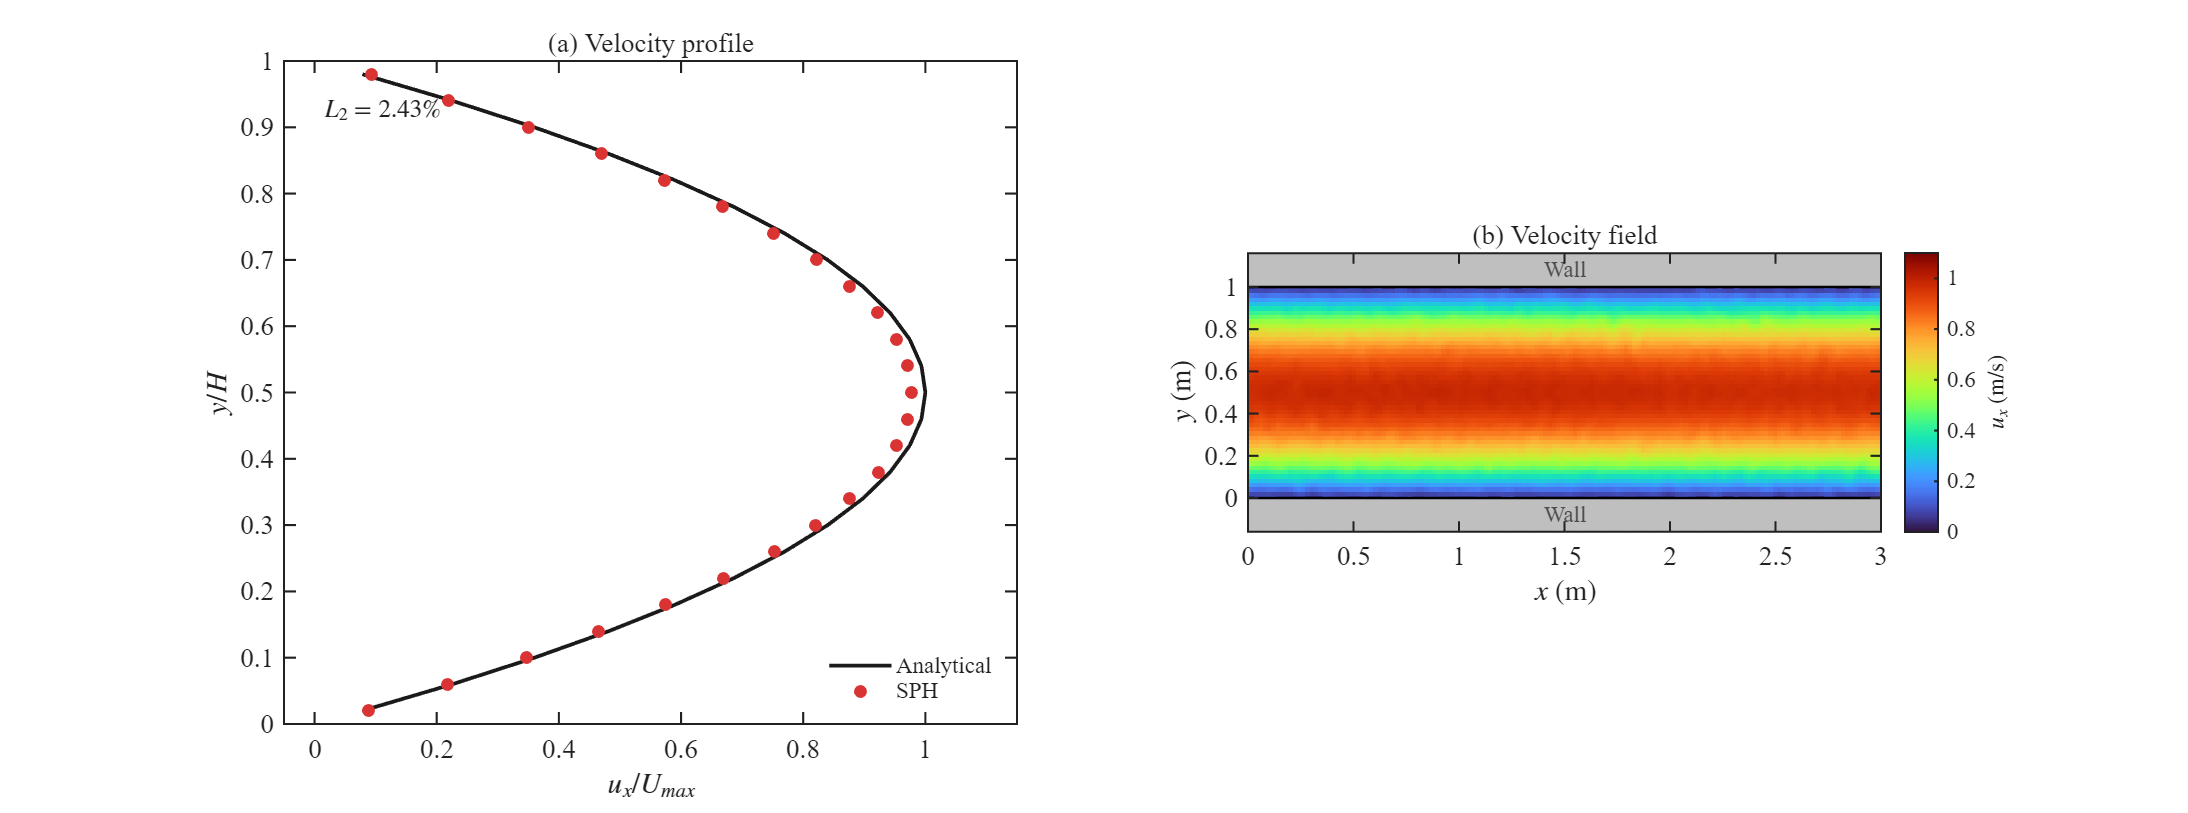
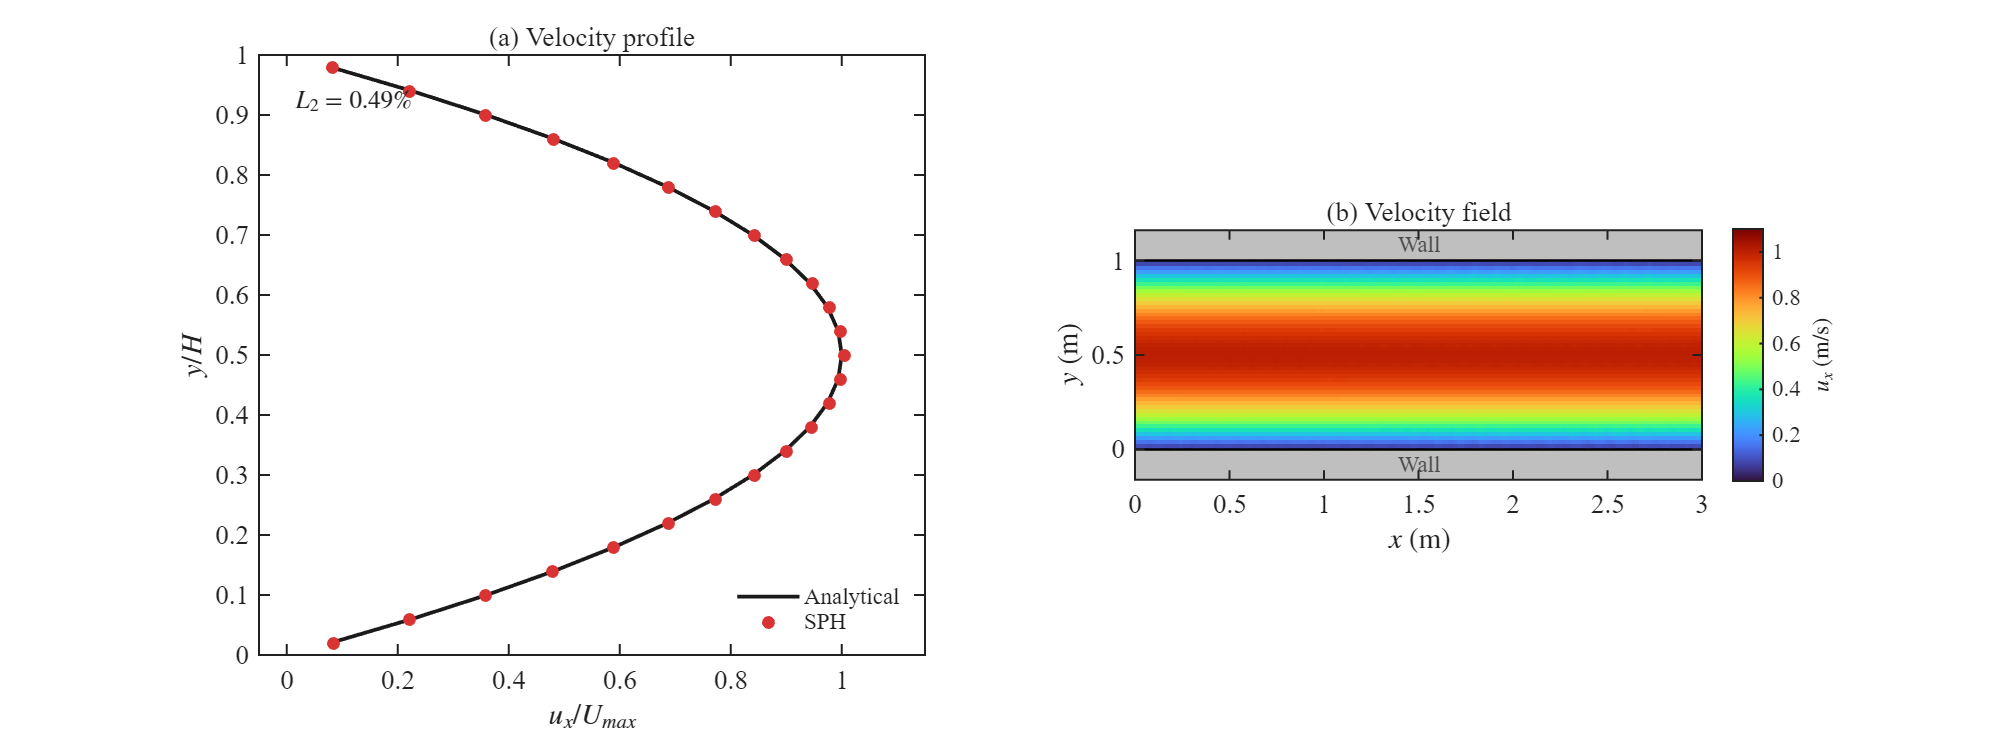
fix(poiseuille): 修复周期边界接缝漏邻居并收敛边界剖面
变更内容：
- 在 `sph_neighbor_search_mex` 中引入 `CellEntryBuffer`，为靠近 `x` 周期边界的粒子插入平移 ghost cell entry，而不是仅依赖 wrapped cell + minimum-image。
- 对 ghost/real entry 增加 `seen_neighbor` 去重，避免跨周期近邻重复计数。
- 更新默认结果图，反映修复后 20s 周期接缝两侧剖面更连续。
- 将 `tests/test_sph_physics_modes.m` 从 Git 索引移除，继续保留本地忽略策略与工作副本。

已定位的关键问题（BUG）：
- 旧实现虽然对 `dx` 做了 minimum-image 修正，但搜索阶段仍只检查 wrapped 后所在 cell 的 3x3 邻域；当粒子贴近两端边界时，会漏掉实际距离仍在 `2h` 内的跨周期近邻。
- 漏邻居会直接传导到 `integration_2nd` 的密度散度项，造成周期接缝两侧 `u_x` 剖面不连续，并放大长时层状轻微起伏。
- `tests/` 已被 `.gitignore` 忽略，但历史上已跟踪的 `test_sph_physics_modes.m` 仍会持续出现在变更中，因此本次同步从索引移除。

验证结果：
- `matlab -batch "run('tests/test_sph_physics_modes.m')"`: PASS
- `matlab -batch "run('tests/test_poiseuille_uniformity_regression.m')"`: PASS
- `matlab -batch "run('tests/test_poiseuille_longtime_order_regression.m')"`: PASS
- `gitnexus_detect_changes(scope=all)`: `risk_level = low`
- 20s 周期接缝指标按流体粒子口径从 `edge ux gap = 0.0587` / `edge profile L2 = 0.0250` 改善到 `0.0232` / `0.00514`
- 最新 20s 全长算例 `L2 = 0.49%`

风险与影响：
- 本次改动只触及周期邻居构造，不改变主推进骨架、`transport_coeff` 或壁面算子公式。
- 邻居搜索现在会在边界附近持有额外 ghost entry；后续如果继续扩展到显式周期 linked-list 统计或并行化，需要留意 entry 容量与重复计数策略。
- 提交后仓库中的 `tests/test_sph_physics_modes.m` 会被删除，但本地文件仍保留并受 `.gitignore` 忽略。

下一步修复计划：
1. 继续观察 20s 后周期接缝附近残余层状起伏，判断是否还需要把同类接缝指标纳入仓库内正式测试门禁。
2. 如果后续切换 second-half 到带 Riemann 耗散的实现，再单独复核 `integration_2nd` 的 `p_dissipation` 路径，而不是在当前 no-Riemann 版本上混改公式。
3. 视需要将周期接缝前后对比补进文档或图表，作为后续归档材料。

diff --git a/mex/sph_neighbor_search_mex.c b/mex/sph_neighbor_search_mex.c
@@ -40,6 +40,71 @@ typedef struct {
     mwSize capacity;
 } PairBuffer;
 
+typedef struct {
+    int *head;
+    int *next;
+    int *particle;
+    double *x;
+    double *y;
+    mwSize count;
+    mwSize capacity;
+} CellEntryBuffer;
+
+static int wrap_cell_index(int cell_index, int n_cell_x)
+{
+    if (n_cell_x <= 0) {
+        return 0;
+    }
+    cell_index %= n_cell_x;
+    if (cell_index < 0) {
+        cell_index += n_cell_x;
+    }
+    return cell_index;
+}
+
+static void init_cell_entry_buffer(CellEntryBuffer *buf, int n_cells, mwSize capacity)
+{
+    int i;
+    buf->count = 0;
+    buf->capacity = capacity;
+    buf->head = (int *)mxMalloc((mwSize)n_cells * sizeof(int));
+    buf->next = (int *)mxMalloc(capacity * sizeof(int));
+    buf->particle = (int *)mxMalloc(capacity * sizeof(int));
+    buf->x = (double *)mxMalloc(capacity * sizeof(double));
+    buf->y = (double *)mxMalloc(capacity * sizeof(double));
+
+    for (i = 0; i < n_cells; ++i) {
+        buf->head[i] = -1;
+    }
+}
+
+static void insert_cell_entry(CellEntryBuffer *buf, int particle, double x, double y,
+                              int cxi, int cyi, int n_cell_x)
+{
+    mwSize entry = buf->count;
+    int cid = cyi * n_cell_x + cxi;
+
+    if (entry >= buf->capacity) {
+        mexErrMsgIdAndTxt("SPH:Neighbor:entryCapacity", "Cell entry capacity exceeded.");
+    }
+
+    buf->particle[entry] = particle;
+    buf->x[entry] = x;
+    buf->y[entry] = y;
+    buf->next[entry] = buf->head[cid];
+    buf->head[cid] = (int)entry;
+    buf->count++;
+}
+
+static void free_cell_entry_buffer(CellEntryBuffer *buf)
+{
+    if (buf->head) mxFree(buf->head);
+    if (buf->next) mxFree(buf->next);
+    if (buf->particle) mxFree(buf->particle);
+    if (buf->x) mxFree(buf->x);
+    if (buf->y) mxFree(buf->y);
+}
+
 /* 2D 三次样条核函数及其径向导数 */
 static void cubic_kernel_2d(double r, double h, double *W, double *dW)
 {
@@ -128,14 +193,15 @@ void mexFunction(int nlhs, mxArray *plhs[], int nrhs, const mxArray *prhs[])
     int n_cell_y;               /* Y 方向单元格数 */
     int n_cells;                /* 总单元格数 */
     /* ---- 链表法数据结构 ---- */
-    int *cell_head;             /* 每个单元格的头粒子索引 [n_cells] */
-    int *next_in_cell;          /* 链表：下一个粒子索引 [n_total] */
-    int *cell_x;                /* 粒子所在单元格 x 索引 [n_total] */
-    int *cell_y;                /* 粒子所在单元格 y 索引 [n_total] */
+    CellEntryBuffer entries;    /* 周期 ghost entry + 实粒子 entry */
+    int *cell_x;                /* 实粒子所在单元格 x 索引 [n_total] */
+    int *cell_y;                /* 实粒子所在单元格 y 索引 [n_total] */
+    int *seen_neighbor;         /* 每个流体粒子的去重标记 [n_total] */
     int i;                      /* 循环索引 */
     /* ---- 粒子对缓冲区 ---- */
     PairBuffer buf;             /* 动态数组存储粒子对 */
     const double r_cut = 2.0;   /* 截断半径（单位：h） */
+    double periodic_cutoff;     /* 周期 ghost 插入阈值 = 2h */
     double r_cut_sq;            /* 截断半径平方 */
     mwSize out_count;           /* 最终粒子对数量 */
 
@@ -183,44 +249,48 @@ void mexFunction(int nlhs, mxArray *plhs[], int nrhs, const mxArray *prhs[])
     if (n_cell_y < 1) n_cell_y = 1;
     n_cells = n_cell_x * n_cell_y;
 
-    cell_head = (int *)mxMalloc((mwSize)n_cells * sizeof(int));
-    next_in_cell = (int *)mxMalloc((mwSize)n_total * sizeof(int));
     cell_x = (int *)mxMalloc((mwSize)n_total * sizeof(int));
     cell_y = (int *)mxMalloc((mwSize)n_total * sizeof(int));
+    seen_neighbor = (int *)mxMalloc((mwSize)n_total * sizeof(int));
 
-    /* 第三步：初始化链表头（-1 表示空单元格） */
-    for (i = 0; i < n_cells; ++i) {
-        cell_head[i] = -1;
-    }
+    periodic_cutoff = r_cut * h;
+    init_cell_entry_buffer(&entries, n_cells, (mwSize)n_total * 3);
 
-    /* 第四步：将所有粒子分配到单元格（X 方向周期包裹）
-     * 链表法：cell_head[cid] 指向该单元格第一个粒子，
-     *         next_in_cell[i] 指向下一个粒子，-1 表示链表结束 */
+    /* 第三步：将所有粒子分配到单元格，并为周期边界附近粒子插入 ghost entry。 */
     for (i = 0; i < n_total; ++i) {
-        double xi = x[i];
+        double xi_wrapped = x[i] - floor(x[i] / DL) * DL;
         double yi = y[i];
-        int cxi;
+        int cxi = wrap_cell_index((int)floor(xi_wrapped / cell_size), n_cell_x);
         int cyi = (int)floor((yi - y_min) / cell_size);
-        int cid;
 
-        /* 所有粒子（含壁面）统一做周期包裹后分配 cell */
-        double xi_wrapped = xi - floor(xi / DL) * DL;
-        cxi = (int)floor(xi_wrapped / cell_size);
-
-        if (cxi < 0) cxi = 0;
-        if (cxi >= n_cell_x) cxi = n_cell_x - 1;
         if (cyi < 0) cyi = 0;
         if (cyi >= n_cell_y) cyi = n_cell_y - 1;
 
         cell_x[i] = cxi;
         cell_y[i] = cyi;
-        cid = cyi * n_cell_x + cxi;
+        insert_cell_entry(&entries, i, xi_wrapped, yi, cxi, cyi, n_cell_x);
 
-        next_in_cell[i] = cell_head[cid];
-        cell_head[cid] = i;
+        if (xi_wrapped > DL - periodic_cutoff) {
+            double ghost_x = xi_wrapped - DL;
+            int ghost_cx = wrap_cell_index((int)floor(ghost_x / cell_size), n_cell_x);
+            if (ghost_cx != cxi) {
+                insert_cell_entry(&entries, i, ghost_x, yi, ghost_cx, cyi, n_cell_x);
+            }
+        }
+        if (xi_wrapped < periodic_cutoff) {
+            double ghost_x = xi_wrapped + DL;
+            int ghost_cx = wrap_cell_index((int)floor(ghost_x / cell_size), n_cell_x);
+            if (ghost_cx != cxi) {
+                insert_cell_entry(&entries, i, ghost_x, yi, ghost_cx, cyi, n_cell_x);
+            }
+        }
     }
 
-    /* 第五步：初始化粒子对缓冲区（动态数组） */
+    for (i = 0; i < n_total; ++i) {
+        seen_neighbor[i] = -1;
+    }
+
+    /* 第四步：初始化粒子对缓冲区（动态数组） */
     init_pair_buffer(&buf, (mwSize)n_fluid * 64 + 1024);
     r_cut_sq = (r_cut * h) * (r_cut * h);
 
@@ -253,11 +323,12 @@ void mexFunction(int nlhs, mxArray *plhs[], int nrhs, const mxArray *prhs[])
                     continue;
                 }
                 int cid = cy * n_cell_x + cx;
-                int j = cell_head[cid];
+                int entry = entries.head[cid];
 
-                /* 遍历该单元格内的所有粒子（链表法） */
-                while (j >= 0) {
-                    if (j != i) {
+                /* 遍历该单元格内的所有 entry（实粒子 + 必要 ghost entry） */
+                while (entry >= 0) {
+                    int j = entries.particle[entry];
+                    if (j != i && seen_neighbor[j] != i) {
                         int skip_pair = 0;
                         double dx_ij;
                         double dy_ij;
@@ -265,20 +336,21 @@ void mexFunction(int nlhs, mxArray *plhs[], int nrhs, const mxArray *prhs[])
                         double r_ij;
                         double W_ij;
                         double dW_ij;
+                        double xi_wrapped = x[i] - floor(x[i] / DL) * DL;
 
                         /* 流体-流体对：只存储 i < j 避免重复 */
                         if (j < n_fluid && j < i) {
                             skip_pair = 1;
                         }
                         if (!skip_pair) {
-                            dx_ij = x[i] - x[j];
+                            dx_ij = xi_wrapped - entries.x[entry];
                             /* 最小镜像约定：选择最短距离（周期性边界） */
                             if (dx_ij > 0.5 * DL) {
                                 dx_ij -= DL;
                             } else if (dx_ij < -0.5 * DL) {
                                 dx_ij += DL;
                             }
-                            dy_ij = y[i] - y[j];
+                            dy_ij = y[i] - entries.y[entry];
                             r2 = dx_ij * dx_ij + dy_ij * dy_ij;
 
                             /* 距离筛选：r > 0 且 r < 2h（截断半径） */
@@ -297,11 +369,12 @@ void mexFunction(int nlhs, mxArray *plhs[], int nrhs, const mxArray *prhs[])
                                     buf.W[buf.count] = W_ij;
                                     buf.dW[buf.count] = dW_ij;
                                     buf.count++;
+                                    seen_neighbor[j] = i;
                                 }
                             }
                         }
                     }
-                    j = next_in_cell[j];  /* 链表下一个粒子 */
+                    entry = entries.next[entry];
                 }
             }
         }
@@ -330,8 +403,8 @@ void mexFunction(int nlhs, mxArray *plhs[], int nrhs, const mxArray *prhs[])
 
     /* 第八步：清理内存 */
     free_pair_buffer(&buf);
-    mxFree(cell_head);
-    mxFree(next_in_cell);
+    free_cell_entry_buffer(&entries);
     mxFree(cell_x);
     mxFree(cell_y);
+    mxFree(seen_neighbor);
 }
